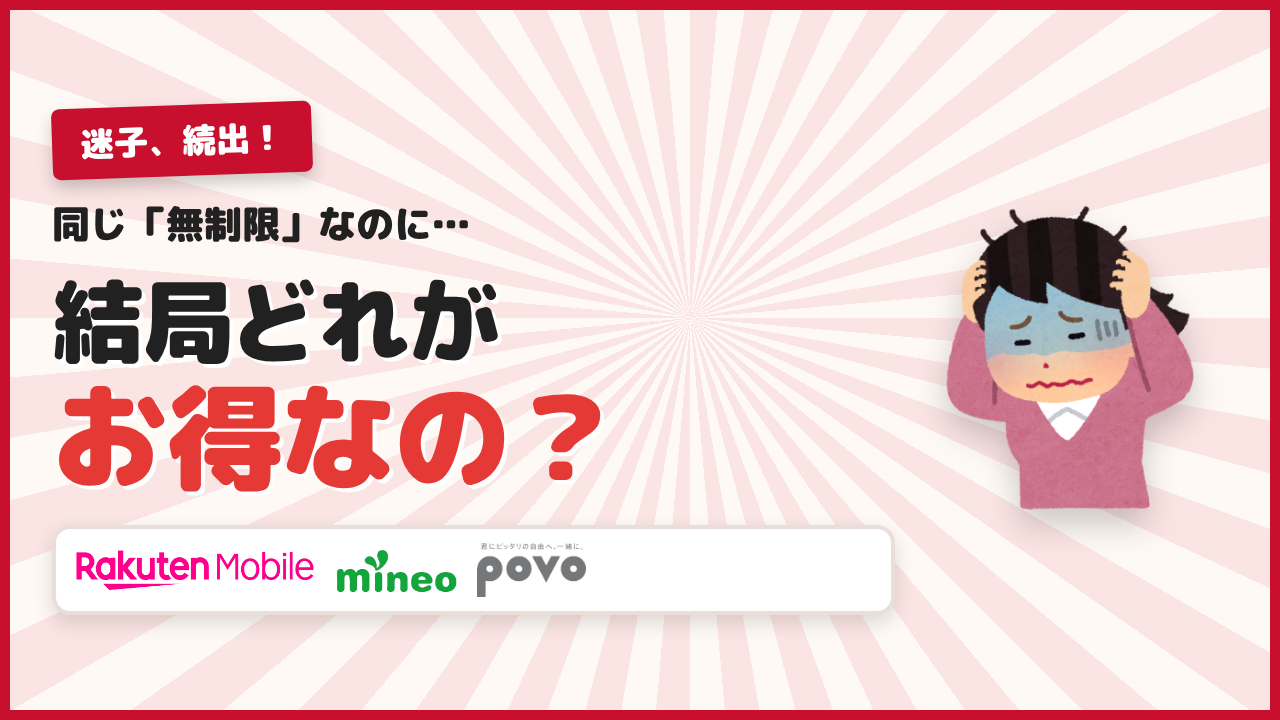
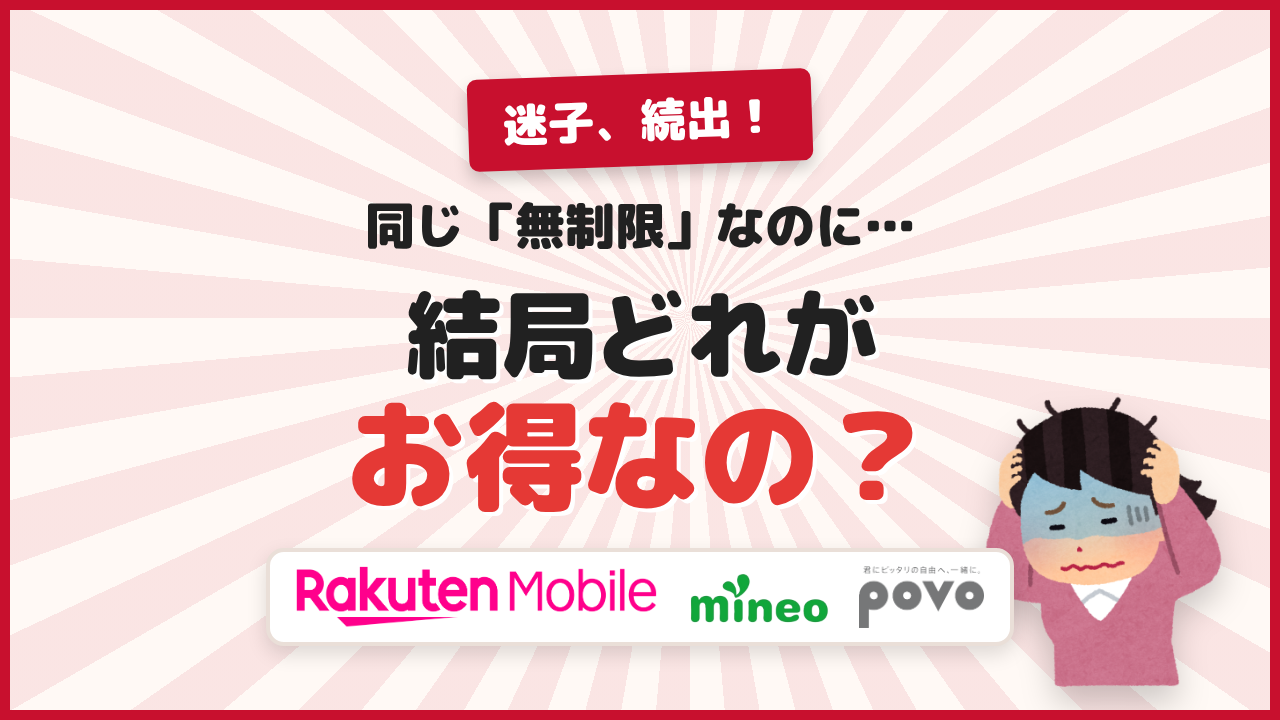
導入スライド：テキストを主役にしていらすとやをアクセント化
Slide 1/2 でいらすとやが2カラムグリッドの1列を占有し、テキストが
左に押し出されて小さくなっていた。

- .std-grid（2カラム）を廃止し、.std-copy を全幅・中央寄せに。
  いらすとやは position:absolute で右下に配置し、z-index:0 で
  テキストの下へ。段組みを押しのけないようにした。
- いらすとやを高さ300px（slide2は290px）のアクセントサイズに縮小。
- .cover-badge 34→46px、.std-kicker 38→50px（スマホ視聴で小さすぎた）。
- h1 を 91/116px → 96/120px、slide2 は 72/104px → 86/112px に拡大。
- Slide 2 の price-flow：社名テキスト（楽天モバイル/mineo/povo）を
  ロゴ画像へ置換。6カラムgridで2行に折れて "vs" が宙に浮いていたのを、
  「ロゴ＋価格」の縦積み3組を vs で並べる flex に変更。価格は32→42px。

Claude-Session: https://claude.ai/code/session_01Rbi2ZYC7BWooGwjg1ZSXvs

diff --git a/slides.html b/slides.html
@@ -16,18 +16,24 @@
       justify-content:center;align-items:center;padding:42px;flex-shrink:0;color:var(--text-dark);
     }
     .sunburst { position:absolute;inset:0;background:repeating-conic-gradient(from 0deg at 54% 44%,rgba(200,16,46,.085) 0 5deg,transparent 5deg 10deg); }
-    .std-grid { position:relative;z-index:1;width:100%;display:grid;grid-template-columns:minmax(0,1.75fr) minmax(260px,.65fr);align-items:center;gap:20px; }
-    .std-copy h1 { font-size:91px;line-height:1.12;font-weight:900;margin:18px 0 24px;text-shadow:4px 4px 0 #fff;letter-spacing:-2px; }
-    .std-copy h1 span { color:var(--accent-red);font-size:116px;white-space:nowrap; }
-    .std-kicker { font-size:38px;font-weight:900;margin-top:20px; }
-    .cover-badge { position:relative;z-index:2;width:fit-content;background:#C8102E;color:#fff;font-size:34px;font-weight:900;padding:10px 28px;border-radius:8px;transform:rotate(-2deg);box-shadow:0 8px 16px #0003;align-self:flex-start; }
-    .std-hero { width:100%;max-height:440px;object-fit:contain;filter:drop-shadow(0 16px 16px #0003); }
-    .std-hero.compact { max-height:350px;align-self:end; }
-    .logo-strip { display:flex;align-items:center;gap:16px;background:#fff;border:4px solid #eadfd8;border-radius:18px;padding:14px 20px;box-shadow:0 8px 20px #0002; }
-    .logo-strip img { max-width:30%;height:54px;object-fit:contain; }
-    .price-flow { display:grid;grid-template-columns:auto auto auto auto auto auto;align-items:center;gap:9px;background:#fff;border:4px solid #C8102E;border-radius:18px;padding:16px;font-size:24px;font-weight:900;box-shadow:0 8px 20px #0002; }
-    .price-flow strong { color:#E53935;font-size:32px;white-space:nowrap; }.price-flow i{color:#777}
-    .title-grid .std-copy h1 { font-size:72px;line-height:1.2 }.title-grid .std-copy h1 span{font-size:104px}
+    /* 導入スライドは「テキストが主役」。いらすとやは右下のアクセントとして絶対配置し、
+       テキストの段組みを押しのけない（＝テキストは全幅を使って中央寄せできる）。 */
+    .std-copy { position:relative;z-index:1;width:100%;display:flex;flex-direction:column;align-items:center;text-align:center; }
+    .std-copy h1 { font-size:96px;line-height:1.12;font-weight:900;margin:18px 0 26px;text-shadow:4px 4px 0 #fff;letter-spacing:-2px; }
+    .std-copy h1 span { color:var(--accent-red);font-size:120px;white-space:nowrap; }
+    .std-kicker { font-size:50px;font-weight:900;margin-top:22px; }
+    .cover-badge { position:relative;z-index:2;width:fit-content;background:#C8102E;color:#fff;font-size:46px;font-weight:900;padding:12px 34px;border-radius:10px;transform:rotate(-2deg);box-shadow:0 8px 16px #0003; }
+    .std-hero { position:absolute;right:16px;bottom:16px;z-index:0;height:300px;width:auto;object-fit:contain;filter:drop-shadow(0 16px 16px #0003); }
+    .std-hero.compact { height:290px; }
+    .logo-strip { width:fit-content;display:flex;align-items:center;gap:26px;background:#fff;border:4px solid #eadfd8;border-radius:18px;padding:14px 26px;box-shadow:0 8px 20px #0002; }
+    .logo-strip img { height:62px;object-fit:contain; }
+    /* 社名はテキストだと小さく潰れるのでロゴ画像で見せる（各社ロゴ＋価格の縦積みを vs で並べる）。 */
+    .price-flow { width:fit-content;display:flex;align-items:center;gap:22px;background:#fff;border:4px solid #C8102E;border-radius:18px;padding:16px 26px;box-shadow:0 8px 20px #0002; }
+    .pf-item { display:flex;flex-direction:column;align-items:center;gap:8px; }
+    .pf-item img { height:44px;max-width:230px;object-fit:contain; }
+    .price-flow strong { color:#E53935;font-size:42px;white-space:nowrap; }
+    .price-flow i { color:#999;font-size:30px;font-weight:900; }
+    .std-copy.title-grid h1 { font-size:86px;line-height:1.18 }.std-copy.title-grid h1 span{font-size:112px}
     /* 評価見開き（N）。レーダーチャートは N-0 側に原寸で置くため、
        右ページの .head-right は罫線を左右で揃えるための空スペーサーとして残す。 */
     .eval-page { padding:28px 42px 250px; }
@@ -88,27 +94,29 @@
 <!-- Slide ID: 1 -->
 <div class="slide-container std">
   <div class="sunburst"></div>
-  <div class="std-grid">
-    <div class="std-copy">
-      <div class="cover-badge">迷子、続出！</div>
-      <div class="std-kicker">同じ「無制限」なのに…</div>
-      <h1>結局どれが<br><span>お得なの？</span></h1>
-      <div class="logo-strip"><img src="public/images/logo/Mobile_logo_1line_magenta.png"><img src="public/images/logo/Mineo_logo.png"><img src="public/images/logo/Povo_logo.png"></div>
-    </div>
-    <img class="std-hero" src="public/images/irasutoya/pose_atama_kakaeru_woman.png" alt="プラン選びに迷う人">
+  <img class="std-hero" src="public/images/irasutoya/pose_atama_kakaeru_woman.png" alt="プラン選びに迷う人">
+  <div class="std-copy">
+    <div class="cover-badge">迷子、続出！</div>
+    <div class="std-kicker">同じ「無制限」なのに…</div>
+    <h1>結局どれが<br><span>お得なの？</span></h1>
+    <div class="logo-strip"><img src="public/images/logo/Mobile_logo_1line_magenta.png"><img src="public/images/logo/Mineo_logo.png"><img src="public/images/logo/Povo_logo.png"></div>
   </div>
 </div>
 <!-- Slide ID: 2 -->
 <div class="slide-container std price-note">
   <div class="sunburst"></div>
-  <div class="cover-badge">2026年 最新比較</div>
-  <div class="std-grid title-grid">
-    <div class="std-copy">
-      <div class="std-kicker">3つの無制限を徹底比較</div>
-      <h1><span>月250円</span>から<br>本当の使い放題まで</h1>
-      <div class="price-flow"><b>楽天モバイル</b><strong>3,278円</strong><i>vs</i><b>mineo</b><strong>250円〜</strong><i>vs</i><b>povo</b><strong>1日330円</strong></div>
+  <img class="std-hero compact" src="public/images/irasutoya/bikkuri_me_tobideru_man.png" alt="価格差に驚く人">
+  <div class="std-copy title-grid">
+    <div class="cover-badge">2026年 最新比較</div>
+    <div class="std-kicker">3つの無制限を徹底比較</div>
+    <h1><span>月250円</span>から<br>本当の使い放題まで</h1>
+    <div class="price-flow">
+      <div class="pf-item"><img src="public/images/logo/Mobile_logo_1line_magenta.png" alt="楽天モバイル"><strong>3,278円</strong></div>
+      <i>vs</i>
+      <div class="pf-item"><img src="public/images/logo/Mineo_logo.png" alt="mineo"><strong>250円〜</strong></div>
+      <i>vs</i>
+      <div class="pf-item"><img src="public/images/logo/Povo_logo.png" alt="povo"><strong>1日330円</strong></div>
     </div>
-    <img class="std-hero compact" src="public/images/irasutoya/bikkuri_me_tobideru_man.png" alt="価格差に驚く人">
   </div>
 </div>
 <!-- Slide ID: 3 -->
